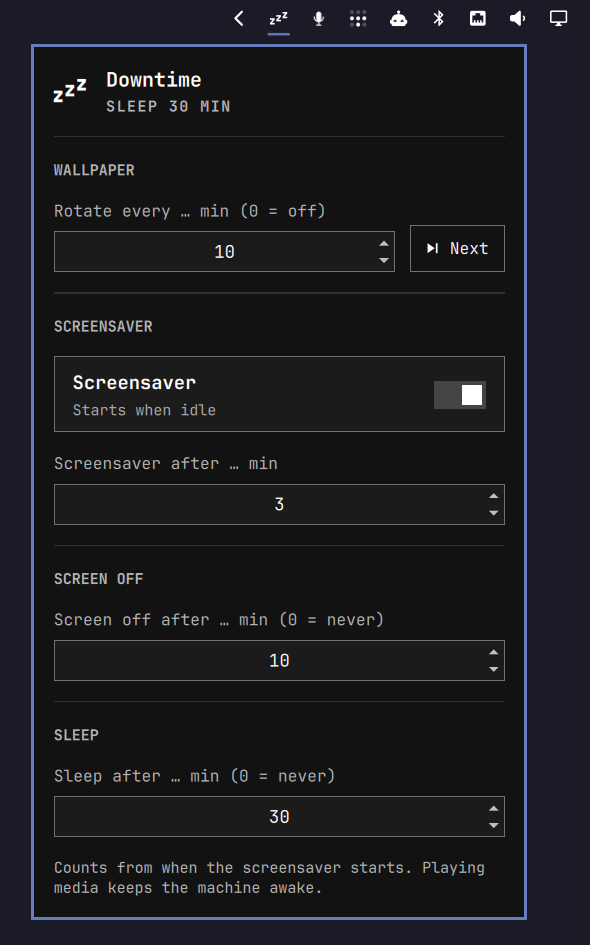
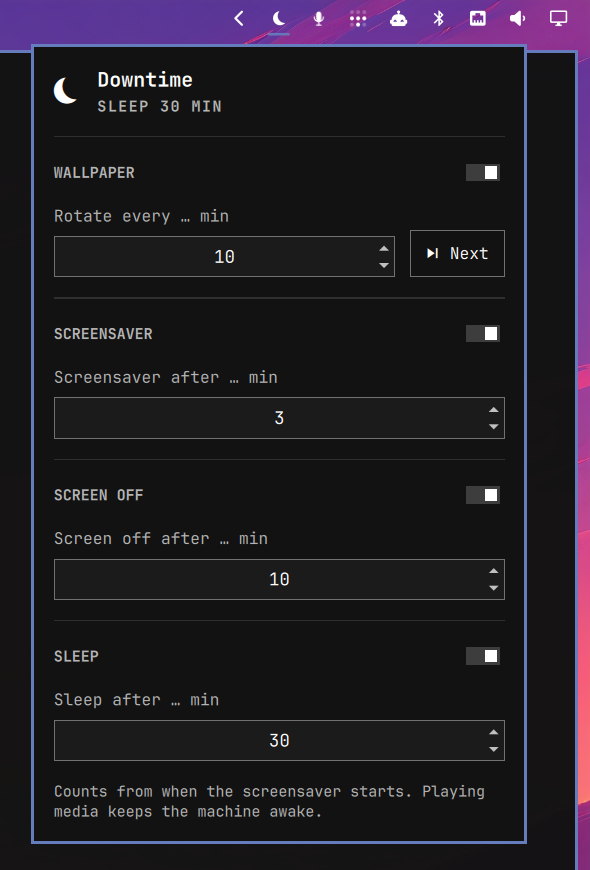
Release 1.2.0

diff --git a/README.md b/README.md
@@ -12,12 +12,14 @@ An independent [MIT](LICENSE)-licensed plugin. Not affiliated with or endorsed b
 
 ## What it does
 
+Each setting has a small on/off switch next to its title. The minutes are kept while it is off.
+
 | Setting | Default | Notes |
 | --- | --- | --- |
-| Wallpaper rotation | off | Calls `omarchy-theme-bg-next`. Right-click the widget for the next one. |
+| Wallpaper rotation | off, 10 min | Calls `omarchy-theme-bg-next`. Right-click the widget for the next one. |
 | Screensaver | unchanged | Omarchy's own `idle.screensaver` and screensaver toggle. Left exactly as they are until you change them in the widget. |
 | Screen off | 10 min | Via hypridle. |
-| Sleep | off | Via hypridle and `systemctl suspend`. |
+| Sleep | off, 30 min | Via hypridle and `systemctl suspend`. |
 
 Things worth knowing:
 

diff --git a/CHANGELOG.md b/CHANGELOG.md
@@ -1,5 +1,12 @@
 # Changelog
 
+## 1.2.0 - 2026-10-08
+
+- Every section has the same small on/off switch next to its title. The
+  minutes are kept while a switch is off. Settings from earlier versions,
+  where 0 minutes meant off, carry over.
+- New moon icon.
+
 ## 1.1.0 - 2026-10-08
 
 - Enabling the plugin no longer changes the screensaver. Omarchy's screensaver
